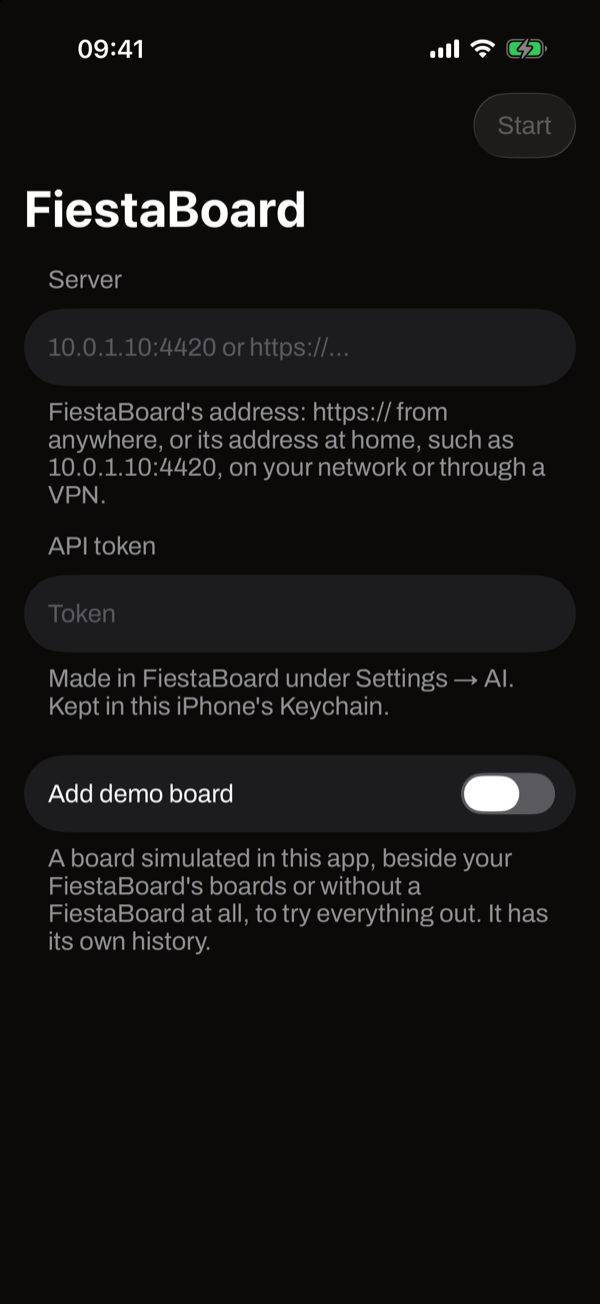
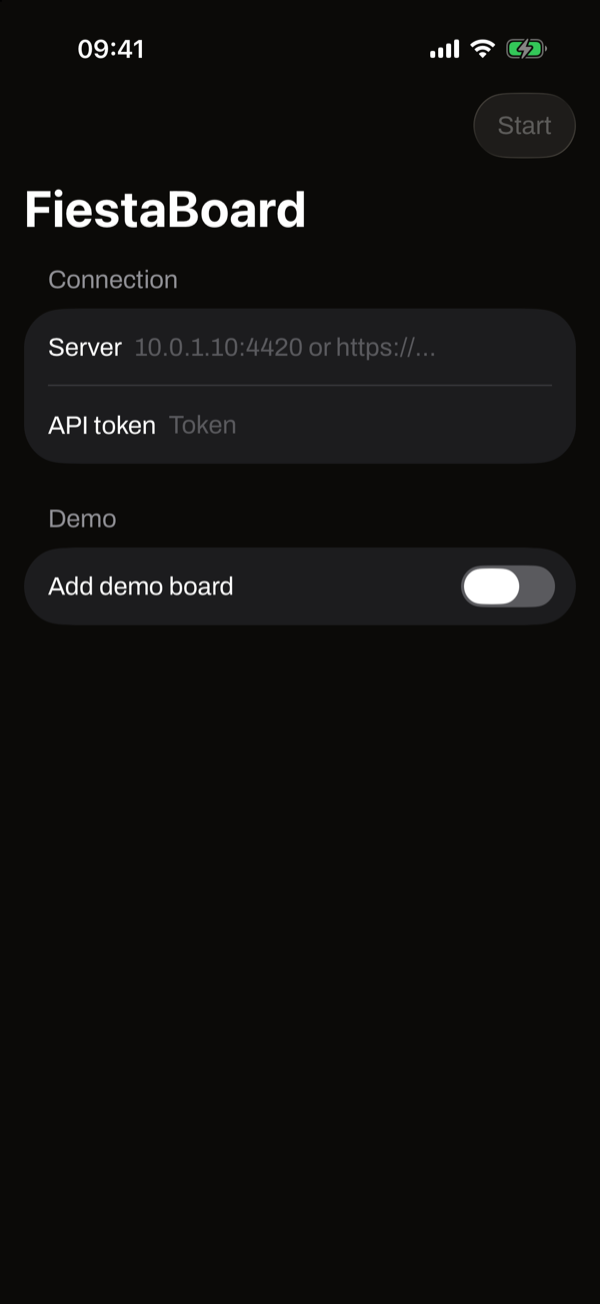
Settings in groups: Connection, Boards, Demo at the bottom, About; no long text under the fields
Claude-Session: https://claude.ai/code/session_01FXXeyGX9nkbXjdAycGNCsJ

diff --git a/FiestaBoard/SettingsView.swift b/FiestaBoard/SettingsView.swift
@@ -27,31 +27,28 @@ struct SettingsView: View {
 
     var body: some View {
         Form {
+            // Where FiestaBoard is and the key to it.
             Section {
-                TextField("10.0.1.10:4420 or https://…", text: $address)
-                    .keyboardType(.URL)
-                    .textContentType(.URL)
-                    .textInputAutocapitalization(.never)
-                    .autocorrectionDisabled()
+                LabeledContent("Server") {
+                    TextField("10.0.1.10:4420 or https://…", text: $address)
+                        .keyboardType(.URL)
+                        .textContentType(.URL)
+                        .textInputAutocapitalization(.never)
+                        .autocorrectionDisabled()
+                }
+                LabeledContent("API token") {
+                    SecureField("Token", text: $token)
+                        .textInputAutocapitalization(.never)
+                        .autocorrectionDisabled()
+                }
             } header: {
-                Text("Server")
-            } footer: {
-                Text("FiestaBoard's address: https:// from anywhere, or its address at home, such as 10.0.1.10:4420, on your network or through a VPN.")
+                Text("Connection")
             }
-            Section {
-                SecureField("Token", text: $token)
-                    .textInputAutocapitalization(.never)
-                    .autocorrectionDisabled()
-            } header: {
-                Text("API token")
-            } footer: {
-                Text("Made in FiestaBoard under Settings → AI. Kept in this iPhone's Keychain.")
-            }
-            Section {
-                Toggle("Add demo board", isOn: $demoBoard)
-                    .tint(Style.primary)
-            } footer: {
-                Text("A board simulated in this app, beside your FiestaBoard's boards or without a FiestaBoard at all, to try everything out. It has its own history.")
+            if let problem {
+                Section {
+                    Label(problem, lucide: "triangle-alert")
+                        .foregroundStyle(.red)
+                }
             }
             if !flapBoards.isEmpty {
                 Section {
@@ -60,14 +57,22 @@ struct SettingsView: View {
                     }
                 } header: {
                     Text("Boards")
-                } footer: {
-                    Text("As your boards really are: FiestaBoard does not tell the app. On a white board, the white and the black tile show the other way round.")
                 }
             }
-            if let problem {
+            Section {
+                Toggle("Add demo board", isOn: $demoBoard)
+                    .tint(Style.primary)
+            } header: {
+                Text("Demo")
+            }
+            if !isFirstRun {
                 Section {
-                    Label(problem, lucide: "triangle-alert")
-                        .foregroundStyle(.red)
+                    LabeledContent("Version", value: Self.version)
+                    Link(destination: URL(string: "https://github.com/rummeyer/fiestaboard-ios-app")!) {
+                        Label("Source code", lucide: "code")
+                    }
+                } header: {
+                    Text("About")
                 }
             }
         }
@@ -103,6 +108,14 @@ struct SettingsView: View {
             demoBoard = settings.demoBoard
             looks = settings.looks
         }
+    }
+
+    /// The version and build, as the App Store would show them.
+    private static var version: String {
+        let info = Bundle.main.infoDictionary
+        let short = info?["CFBundleShortVersionString"] as? String ?? "–"
+        let build = info?["CFBundleVersion"] as? String ?? ""
+        return build.isEmpty ? short : "\(short) (\(build))"
     }
 
     /// Split-flap boards: an LED panel has no flaps to colour.

diff --git a/CHANGELOG.md b/CHANGELOG.md
@@ -32,6 +32,8 @@ adheres to [semantic versioning](https://semver.org/spec/v2.0.0.html).
   whether its code 62 is a heart or a degree sign — FiestaBoard's API does
   not say. On a white board the white and black tiles show the other way
   round, as FiestaBoard draws them, and the colour tiles to put in follow.
+- Settings in groups — Connection, Boards, Demo, About with the version and
+  a link to the source — without long explanations under the fields.
 - Settings for FiestaBoard's address and an API token, tried before they are
   kept; the token in the Keychain. https:// from anywhere, or plain http://
   to an address on the home network or reached through a VPN — private IPv4

diff --git a/README.md b/README.md
@@ -32,7 +32,7 @@
   &nbsp;
   <picture>
     <source media="(prefers-color-scheme: dark)" srcset="docs/screenshots/settings-dark.png">
-    <img src="docs/screenshots/settings-light.png" alt="The first start: FiestaBoard's address and the API token" width="200">
+    <img src="docs/screenshots/settings-light.png" alt="The first start: Connection, with FiestaBoard's address and the API token, and Demo, to add the demo board" width="200">
   </picture>
 </p>
 
